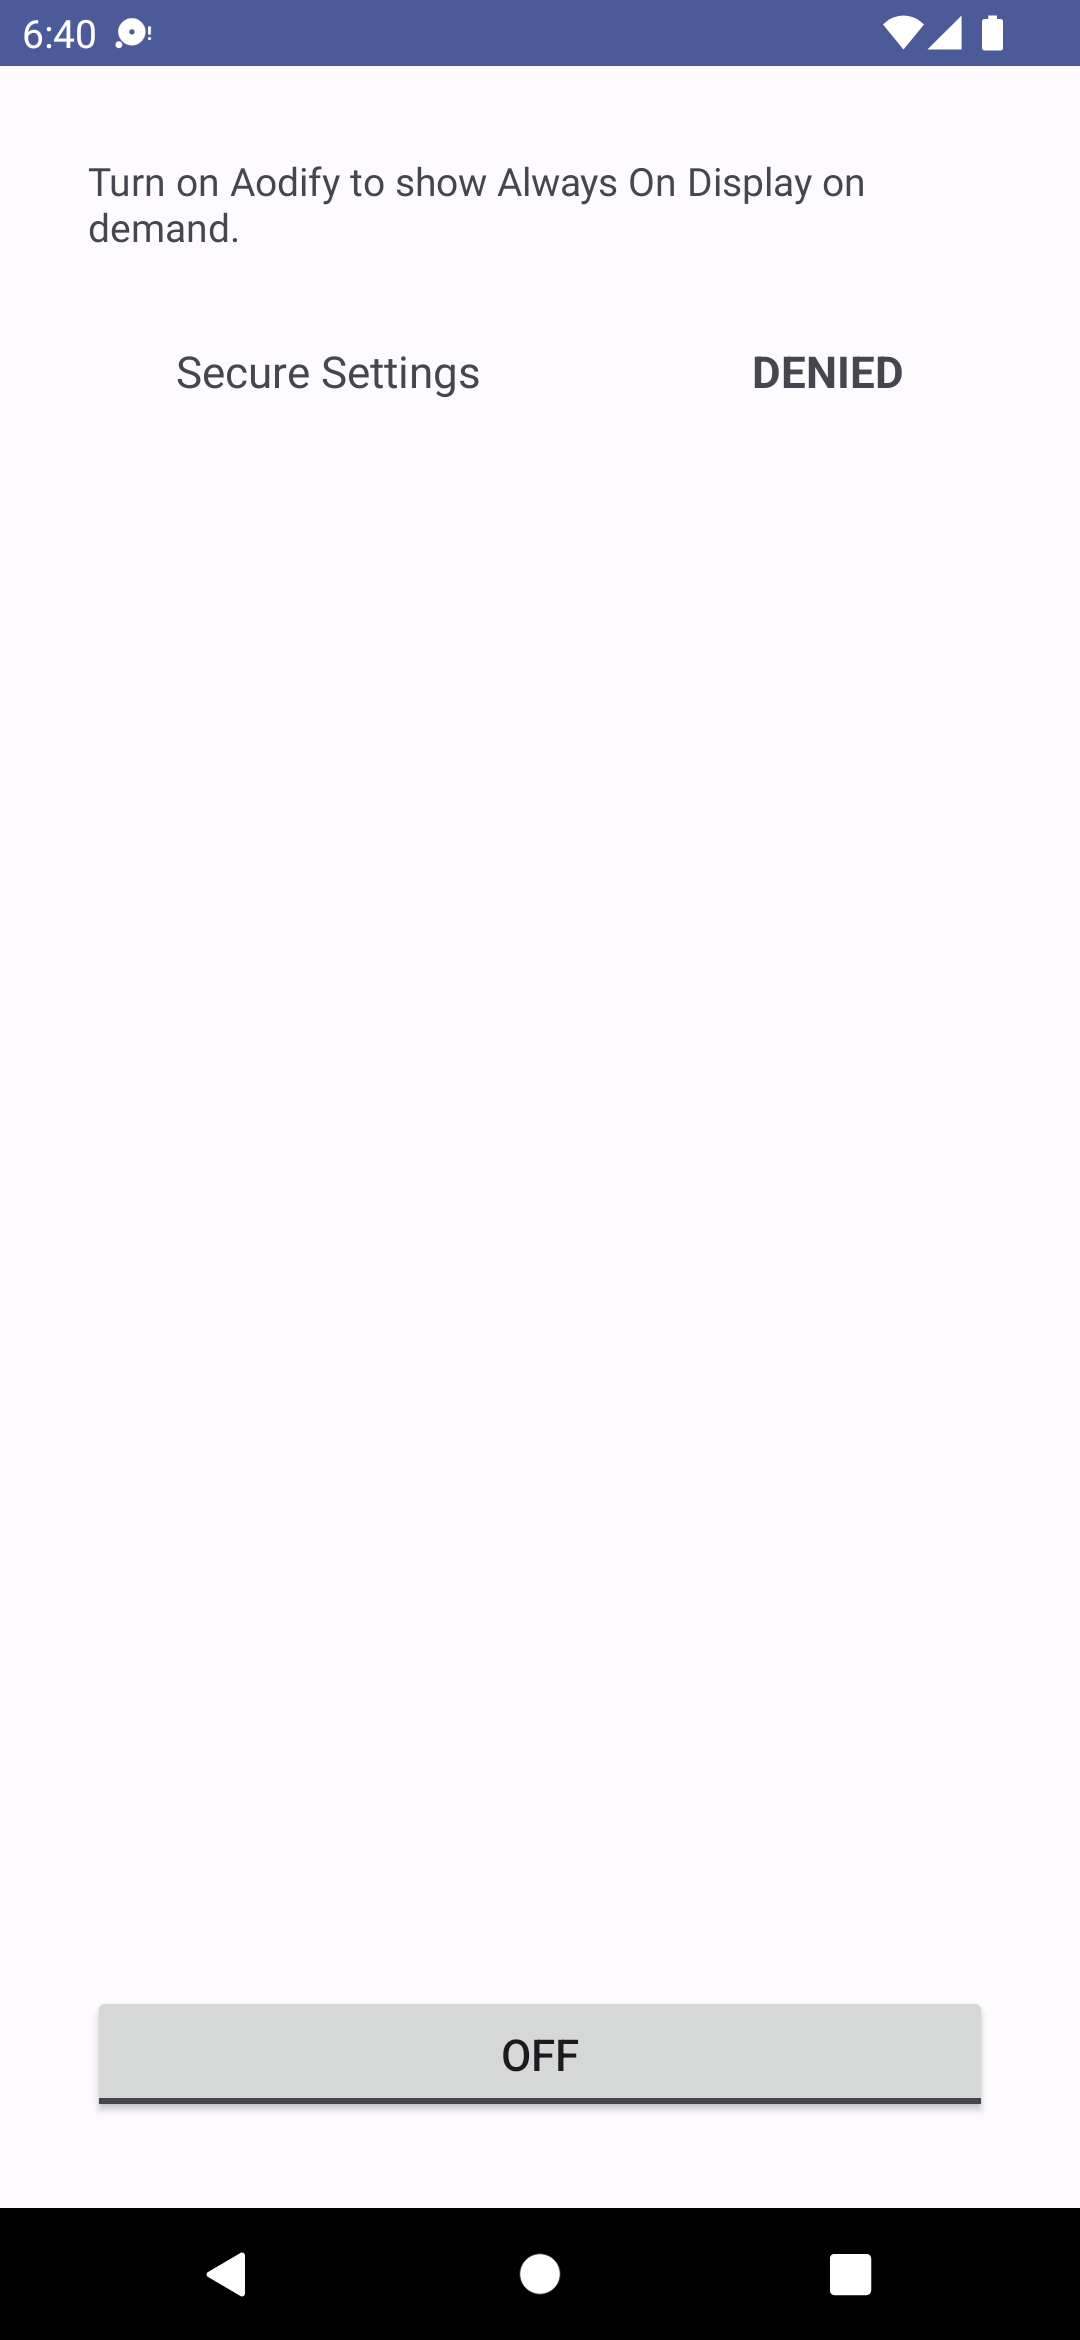
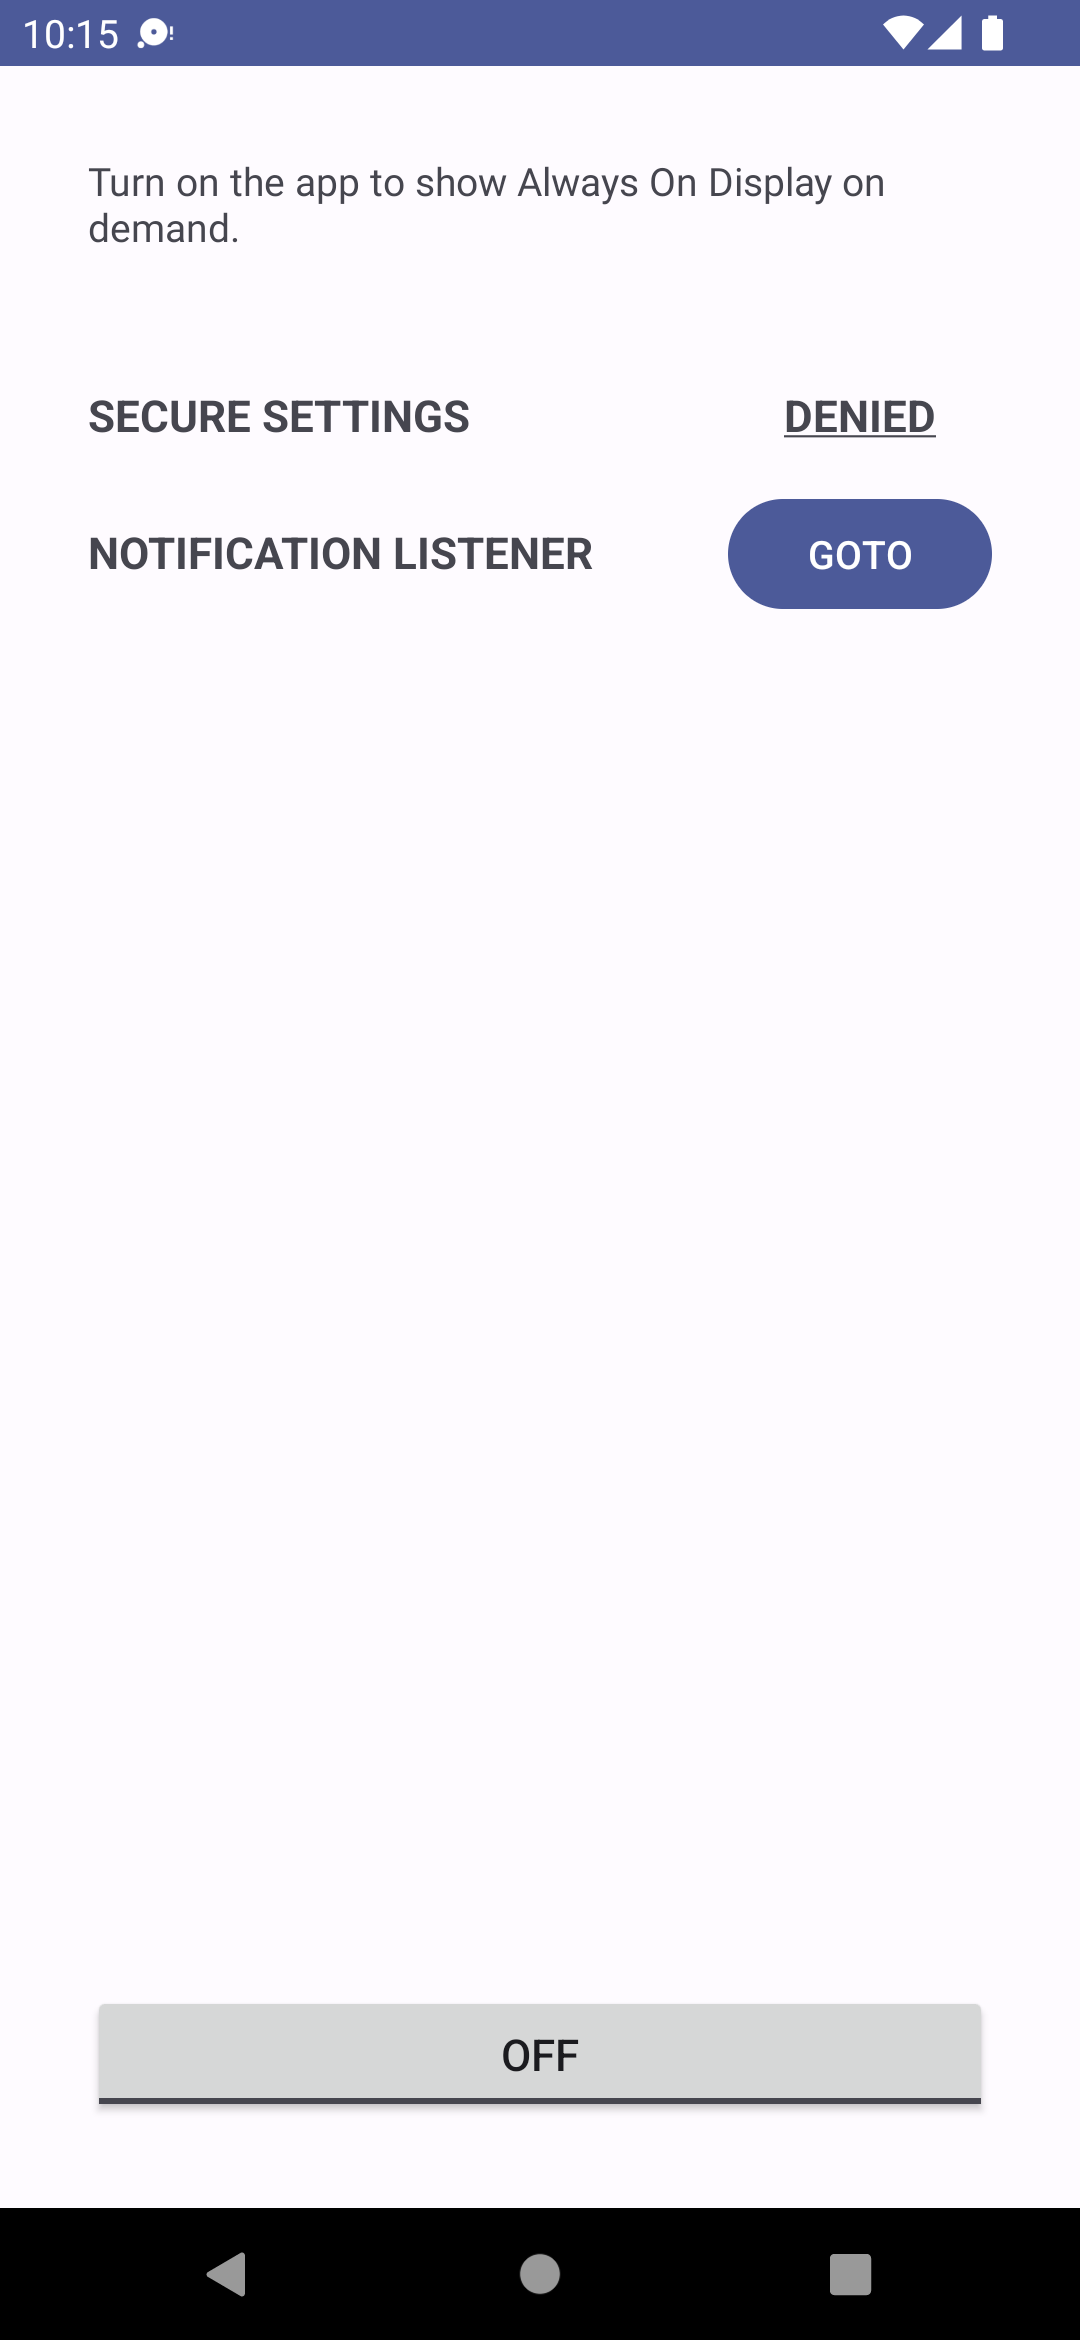
add tile

diff --git a/app/src/main/java/me/lucky/aodify/MainActivity.kt b/app/src/main/java/me/lucky/aodify/MainActivity.kt
@@ -1,8 +1,10 @@
 package me.lucky.aodify
 
-import android.Manifest
-import android.content.pm.PackageManager
+import android.content.Intent
+import android.content.SharedPreferences
+import android.graphics.Paint
 import android.os.Bundle
+import android.provider.Settings
 import androidx.appcompat.app.AppCompatActivity
 
 import me.lucky.aodify.databinding.ActivityMainBinding
@@ -11,6 +13,10 @@ class MainActivity : AppCompatActivity() {
     private lateinit var binding: ActivityMainBinding
     private lateinit var prefs: Preferences
     private lateinit var dozeManager: DozeManager
+
+    private val prefsListener = SharedPreferences.OnSharedPreferenceChangeListener { _, key ->
+        if (key == Preferences.SERVICE_ENABLED) binding.toggle.isChecked = prefs.isServiceEnabled
+    }
 
     override fun onCreate(savedInstanceState: Bundle?) {
         super.onCreate(savedInstanceState)
@@ -22,19 +28,29 @@ class MainActivity : AppCompatActivity() {
 
     override fun onStart() {
         super.onStart()
+        prefs.registerListener(prefsListener)
         update()
+    }
+
+    override fun onStop() {
+        super.onStop()
+        prefs.unregisterListener(prefsListener)
     }
 
     private fun init() {
         prefs = Preferences(this)
         dozeManager = DozeManager(this)
         binding.apply {
-            toggle.isChecked = prefs.isServiceEnabled
+            wssState.paintFlags = wssState.paintFlags.or(Paint.UNDERLINE_TEXT_FLAG)
+            if (!Utils.isAodAvailable()) toggle.isEnabled = false
         }
     }
 
     private fun setup() {
         binding.apply {
+            notificationListenerButton.setOnClickListener {
+                startActivity(Intent(Settings.ACTION_NOTIFICATION_LISTENER_SETTINGS))
+            }
             toggle.setOnCheckedChangeListener { _, isChecked ->
                 prefs.isServiceEnabled = isChecked
                 dozeManager.setAlwaysOn(if (isChecked) 1 else 0)
@@ -45,10 +61,11 @@ class MainActivity : AppCompatActivity() {
     private fun update() {
         binding.apply {
             wssState.text = getText(
-                if (checkSelfPermission(Manifest.permission.WRITE_SECURE_SETTINGS) ==
-                    PackageManager.PERMISSION_GRANTED) R.string.wss_state_yes
+                if (Utils.hasWriteSecureSettingsPermission(this@MainActivity))
+                    R.string.wss_state_yes
                 else R.string.wss_state_no
             )
+            toggle.isChecked = prefs.isServiceEnabled
         }
     }
 }

diff --git a/app/src/main/java/me/lucky/aodify/TileService.kt b/app/src/main/java/me/lucky/aodify/TileService.kt
@@ -1,0 +1,47 @@
+package me.lucky.aodify
+
+import android.os.Build
+import android.service.quicksettings.Tile
+import android.service.quicksettings.TileService
+import androidx.annotation.RequiresApi
+
+@RequiresApi(Build.VERSION_CODES.N)
+class TileService : TileService() {
+    private lateinit var prefs: Preferences
+    private lateinit var dozeManager: DozeManager
+    private var isAodAvailable = false
+
+    override fun onCreate() {
+        super.onCreate()
+        init()
+    }
+
+    override fun onClick() {
+        super.onClick()
+        val state = qsTile.state == Tile.STATE_INACTIVE
+        prefs.isServiceEnabled = state
+        dozeManager.setAlwaysOn(if (state) 1 else 0)
+        update()
+    }
+
+    override fun onStartListening() {
+        super.onStartListening()
+        update()
+    }
+
+    private fun init() {
+        prefs = Preferences(this)
+        dozeManager = DozeManager(this)
+        isAodAvailable = Utils.isAodAvailable()
+    }
+
+    private fun update() {
+        qsTile.state = when {
+            !isAodAvailable || !Utils.hasWriteSecureSettingsPermission(this) ->
+                Tile.STATE_UNAVAILABLE
+            prefs.isServiceEnabled -> Tile.STATE_ACTIVE
+            else -> Tile.STATE_INACTIVE
+        }
+        qsTile.updateTile()
+    }
+}

diff --git a/app/src/main/java/me/lucky/aodify/Preferences.kt b/app/src/main/java/me/lucky/aodify/Preferences.kt
@@ -1,12 +1,13 @@
 package me.lucky.aodify
 
 import android.content.Context
+import android.content.SharedPreferences
 import androidx.core.content.edit
 import androidx.preference.PreferenceManager
 
 class Preferences(ctx: Context) {
     companion object {
-        private const val SERVICE_ENABLED = "service_enabled"
+        const val SERVICE_ENABLED = "service_enabled"
     }
 
     private val prefs = PreferenceManager.getDefaultSharedPreferences(ctx)
@@ -14,4 +15,12 @@ class Preferences(ctx: Context) {
     var isServiceEnabled: Boolean
         get() = prefs.getBoolean(SERVICE_ENABLED, false)
         set(value) = prefs.edit { putBoolean(SERVICE_ENABLED, value) }
+
+    fun registerListener(listener: SharedPreferences.OnSharedPreferenceChangeListener) {
+        prefs.registerOnSharedPreferenceChangeListener(listener)
+    }
+
+    fun unregisterListener(listener: SharedPreferences.OnSharedPreferenceChangeListener) {
+        prefs.unregisterOnSharedPreferenceChangeListener(listener)
+    }
 }

diff --git a/app/src/main/java/me/lucky/aodify/Utils.kt b/app/src/main/java/me/lucky/aodify/Utils.kt
@@ -1,0 +1,24 @@
+package me.lucky.aodify
+
+import android.Manifest
+import android.content.Context
+import android.content.pm.PackageManager
+import android.content.res.Resources
+import java.lang.Exception
+
+object Utils {
+    fun hasWriteSecureSettingsPermission(ctx: Context) =
+        ctx.checkSelfPermission(Manifest.permission.WRITE_SECURE_SETTINGS) ==
+            PackageManager.PERMISSION_GRANTED
+
+    fun isAodAvailable(): Boolean {
+        val res = Resources.getSystem()
+        return try {
+            res.getBoolean(res.getIdentifier(
+                "config_dozeAlwaysOnDisplayAvailable",
+                "bool",
+                "android",
+            ))
+        } catch (exc: Resources.NotFoundException) { false }
+    }
+}

diff --git a/app/src/main/java/me/lucky/aodify/DozeManager.kt b/app/src/main/java/me/lucky/aodify/DozeManager.kt
@@ -7,16 +7,9 @@ import android.provider.Settings
 class DozeManager(private val ctx: Context) {
     companion object {
         private const val SETTINGS_ALWAYS_ON = "doze_always_on"
-//        private const val SETTINGS_ENABLED = "doze_enabled"
         private const val PULSE_PACKAGE = "com.android.systemui"
         private const val PULSE_ACTION = "$PULSE_PACKAGE.doze.pulse"
     }
-
-//        fun isEnabled(): Boolean {
-//            return try {
-//                Settings.Secure.getInt(ctx.contentResolver, SETTINGS_ENABLED) == 1
-//            } catch (exc: SecurityException) { false }
-//        }
 
     fun setAlwaysOn(state: Int) {
         assert(state == 0 || state == 1)
